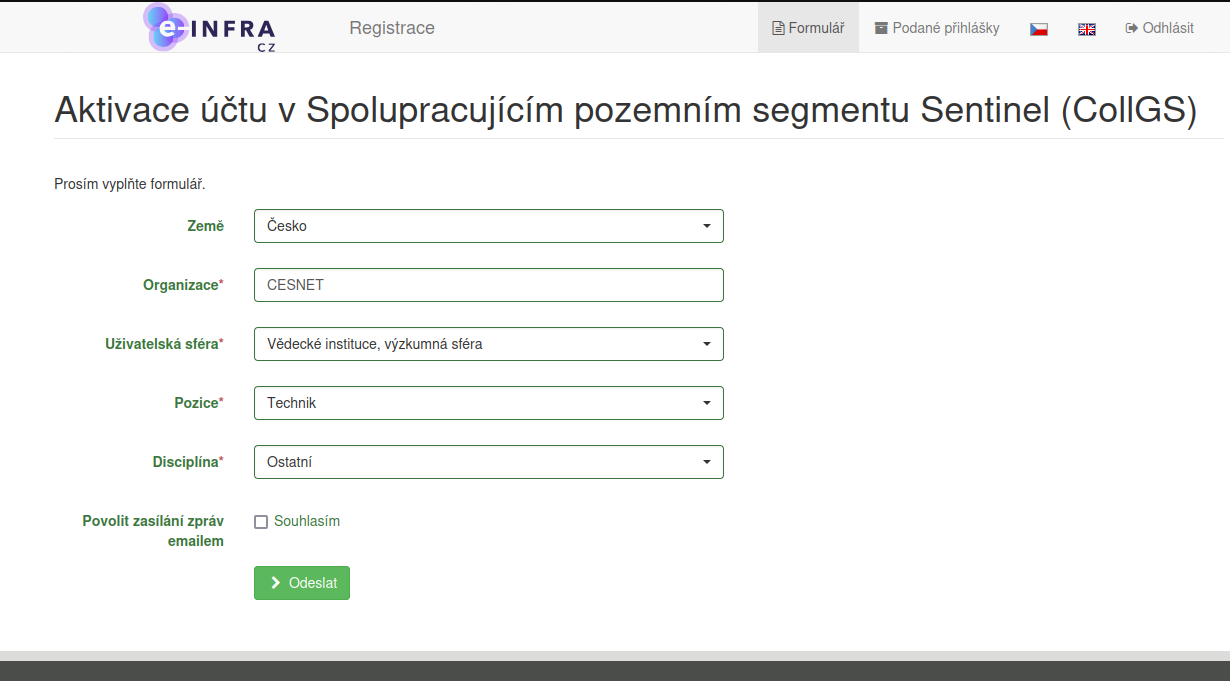
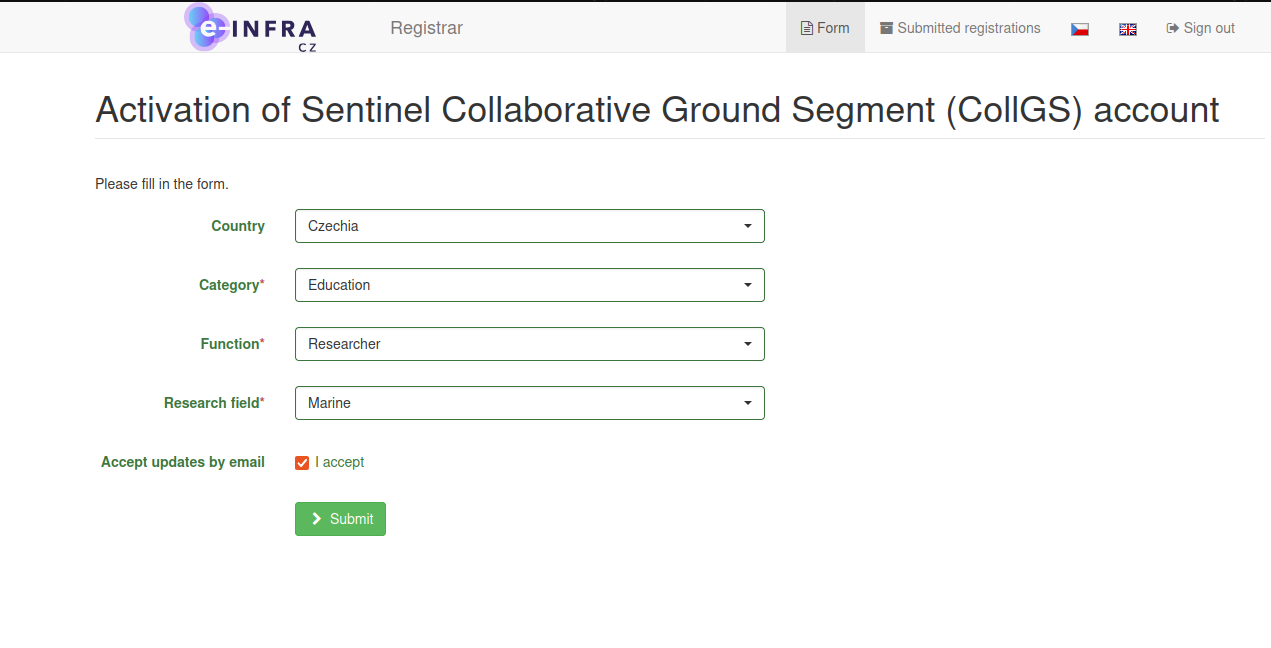
GSS login to english including screenshots

diff --git a/docs/related/collgs/gss_login.md b/docs/related/collgs/gss_login.md
@@ -1,81 +1,90 @@
-# Autentizace uživatelů v GSS
-Tato sekce popisuje autentizaci uživatelů v systému GSS (Gael Store Service), a to jak interaktivní
-přihlášení v grafické komponentě COPSI, tak získání a výměnu tokenů pro strojové použití. Oba způsoby vyžadují registraci.
-Návod na použití tohoto software naleznete v sekci o [práci s daty družic Sentinel](./sentinel.md).
+## User Authentication in GSS
 
-## Grafické rozhraní
+This section describes user authentication in the GSS (Gael Store Service) system, including both interactive login via the graphical COPSI component and obtaining and exchanging tokens for machine use. 
+
+Both methods require registration.
+
+Instructions on using this software can be found in the section on [working with Sentinel satellite data](./sentinel.md).
+
+## Graphical Interface
 
 ![copsi_first_page.png](copsi_first_page.png)
 
-Při přístupu k aplikaci COPSI na adrese [https://collgs.cesnet.cz](https://collgs.cesnet.cz) se zobrazí okno vyžadující přihlášení.
-Po potvrzení tlačítkem _Sign In_ budete přesměrováni na výběr komunity, kterou se chcete přihlásit.
+When accessing the COPSI application at [https://collgs.cesnet.cz](https://collgs.cesnet.cz), a login window will appear.
+
+After confirming by clicking _Sign In_, you will be redirected to select the community you want to log in with.
 
 ![copsi_community.png](copsi_community.png)
 
-Pokud nemáte účet ani v jedné z komunit, zvolte variantu _E-INFRA CZ_.
-Ve výběru následně zvolte Vaši přidruženou instituci, nebo zvolte sociální identitu (např. ORCID).
+If you do not have an account in any of the communities, choose the option _E-INFRA CZ_. Then select your affiliated institution or choose a social identity (e.g., ORCID).
 
 ![copsi_idps.png](copsi_idps.png)
 
-Dokončete přihlášení. Pokud se přihlašujete poprvé, budete přesměrováni na registrační formulář.
-V něm vyplňte požadované údaje. Odesláním vyplněné přihlášky se zakládá účet v IAM systému Perun.
-Ten je aktivní po dobu dvou let, před expirací účtu obdržíte emailem upozornění na prodloužení platnosti účtu. 
+Complete the login process. If this is your first login, you will be redirected to a registration form.
+
+Fill in the required details in the form. By submitting the completed application, an account is created in the IAM Perun system.
+
+The account remains active for two years, and you will receive an email notification before the account expires to extend its validity.
 
 ![perun_registration.png](perun_registration.png)
 
-Podle vybrané komunity při přihlášení budete buď následně přesměrováni zpět do aplikace Copsi,
-nebo Vaše přihláška bude čekat na schválení správcem organizace. V případě, že Vás i po schválení přihlášky aplikace
-přesměruje na stránku, která informuje o tom, že jste již registrováni, zkuste do aplikace přistoupit v anonymním okně,
-nebo smažte cookies.
+Based on the selected community during login, you will either be redirected back to the COPSI application, or your application will wait for approval by the organization administrator.  
 
-## Strojový přístup
+If, after approval, the application redirects you to a page informing you that you are already registered, try accessing the application in an incognito window or clearing your cookies.
 
-Pro stažení produktů pomocí OData API je nutné k požadavkům přidat autentizaci formou access tokenu.
-Tokeny lze získat na adrese [https://keycloak.grid.cesnet.cz/token-portal](https://keycloak.grid.cesnet.cz/token-portal).
+## Machine Access
+
+To download products via the OData API, authentication using an access token must be added to the requests.
+
+Tokens can be obtained at [https://keycloak.grid.cesnet.cz/token-portal](https://keycloak.grid.cesnet.cz/token-portal).
 
 ![token_portal_intro.png](token_portal_intro.png)
 
-Na stránce portálu pokračujte přes volbu _Authorise_. Pokud tokeny generujete poprvé, bude nutné provést registraci. V opačném
-případě se přihlaste, podobně jako v případě přístupu přes [Grafické rozhraní](#grafické-rozhraní).
+On the portal page, proceed by selecting _Authorise_. If you are generating tokens for the first time, you will need to register.
+
+Otherwise, log in similarly to the process described in [Graphical Interface](#graphical-interface).
 
 ![token_portal.png](token_portal.png)
 
-Na stránce _Generate Tokens_ jsou následující položky:
+On the _Generate Tokens_ page, the following items are available:
 
-**Access Token** - slouží k autentizaci a autorizaci při přístupu k API. Má platnost 8 hodin.
+**Access Token** - Used for authentication and authorization when accessing the API. It is valid for 8 hours.
 
-**Refresh Token** - slouží k obnovení access tokenu bez nutnosti opakovaného přihlášení. Platí 30 dnů. Při každé
-žádosti o výměnu access tokenu se vydá zároveň nový refresh token. Původní refresh token se
-tím stává nevalidním, a pro příští výměnu tokenů je nutné použít nový refresh token. Nový refresh token bude mít platnost 30 dnů.
+**Refresh Token** - Used to renew the access token without the need to log in again. It is valid for 30 days. Each time an access token is exchanged, a new refresh token is issued, and the previous one becomes invalid. For the next token exchange, the new refresh token must be used. The new refresh token will also have a validity of 30 days.
 
-**Client ID a Client Secret** - slouží pro autentizaci aplikace při výměně tokenů.
+**Client ID and Client Secret** - Used to authenticate the application during token exchange.
 
-**Příkaz pro výměnu tokenů** - tímto příkazem při expiraci access tokenu získáte nový access token a refresh token s plnou platností.
+**Token Exchange Command** - This command allows you to obtain a new access token and refresh token with full validity when the access token expires.
 
-**Odkaz na správu tokenů** - vede na aplikaci ke správě účtu a tokenů. Zde se můžete odhlásit ze zařízení a revokovat
-tak refresh token.
+**Token Management Link** - Provides access to the application for managing your account and tokens. Here, you can log out from a device and revoke the refresh token.
 
-### Jak pracovat s tokeny
-#### 1. Přístup k API s Access Tokenem
-Po získání access tokenu ho přípojíte k požadavkům na API jako autorizační hlavičku:
+### How to Work with Tokens
+
+#### 1. Accessing the API with an Access Token
+
+After obtaining an access token, include it in your API requests as an authorization header:
 
     Authorization: Bearer <access_token>
 
-Přidání této hlavičky k požadavkům umožní API ověřit vaši identitu a získat potřebná oprávnění.
-Volání GSS OData API pak může vypadat následovně:
+Adding this header to your requests allows the API to verify your identity and grant the necessary permissions.
+
+A GSS OData API call may look as follows:
+
 ```shell
 curl -X GET "https://collgs.cesnet.cz/odata/v1/Products?\$filter=startswith(Name,'S1')%20and%20contains(Name,'SLC')" \
 -H "Authorization: Bearer $ACCESS_TOKEN"  \
 -H "Accept: application/json"
 ```
 
-#### 2. Obnovení access tokenu pomocí refresh tokenu
-Jakmile access token vyprší, místo opětovného přihlášení můžete využít refresh token k získání nového access tokenu.
-Proces probíhá zasláním POST požadavku, který je předpřipravený jako _curl_ dotaz
-na stránce Token portálu. Tento požadavek využívá volání Pythonu, pokud využíváte Python verzi 3, nahraďte v příkazu
-_python_ za _python3_. Tento požadavek Vám spolu s dalšími informacemi vydá nový access token, který má platnost 8 hodin,
-a refresh token s platností 30 dní.
-Ve formátu JSON bude odpověď vypadat následovně:
+#### 2. Refreshing the Access Token Using the Refresh Token
+
+When the access token expires, you can use the refresh token to obtain a new access token without logging in again.
+
+The process involves sending a POST request, which is pre-configured as a _curl_ command on the Token Portal page.  If you are using Python version 3, you may need to replace _python_ with _python3_ in the command.  
+
+This request will return a new access token with an 8-hour validity, along with a refresh token valid for 30 days.
+
+The response in JSON format will look as follows:
 
     {
     "access_token": "eyJh....gywQ",
@@ -89,27 +98,31 @@ Ve formátu JSON bude odpověď vypadat následovně:
     "scope": "openid email profile"
     }
 
-Nový access token lze dále využívat pro dotazy v GSS, novým refresh tokenem nahraďte ten starý.
+You can use the new access token for further requests in GSS, and replace the old refresh token with the new one.
 
-#### 3. Bezpečné ukládání tokenů
-**Access token**: Ukládejte v paměti (např. v proměnné nebo cache) pouze po dobu, kdy je aktivní. Jelikož má kratší platnost,
-není potřeba jej dlouhodobě uchovávat.
+#### 3. Secure Token Storage
 
-**Refresh token**: Doporučuje se ukládat do bezpečného úložiště, např. do databáze nebo do šifrovaného úložiště.
-Refresh token má delší platnost, a proto by měl být uložen na bezpečném místě s omezeným přístupem.
+**Access Token**:  
+Store in memory (e.g., a variable or cache) only while it is active. Since it has a shorter validity period, there is no need for long-term storage.  
 
-#### 4. Revokování tokenů
-V případě potřeby lze tokeny revokovat pomocí aplikace na správu účtů, která je odkazována 
-ve spodní části Token portálu. Odhlášení (revokace tokenu) se nachází v části Account security > Device activity.
-Volbou _Sign out_ se odhlásí vybrané zařízení, volba _Sign out all devices_ slouží pro hromadné odhlášení.
+**Refresh Token**:  
+It is recommended to store in a secure location, such as a database or encrypted storage.
+
+Since the refresh token has a longer validity period, it should be stored securely with limited access.  
+
+#### 4. Token Revocation
+
+If necessary, tokens can be revoked using the account management application linked at the bottom of the Token Portal.
+
+Revocation (logging out) is located under **Account Security > Device Activity**.
+
+Use the _Sign out_ option to log out a specific device, or _Sign out all devices_ for a complete logout.  
 
 ![token_revoke.png](token_revoke.png)
 
-### Výměna tokenů
-V případě, že již pracujete s tokeny z EGI Check-inu, je možné je bez nutnosti dalšího přihlášení vyměnit
-za tokeny umožňující přístup do systému GSS. V takovém případě odešlete platný access token vydaný EGI Check-inem
-metodou POST na endpoint [https://keycloak.grid.cesnet.cz/realms/collgs/protocol/openid-connect/token](https://keycloak.grid.cesnet.cz/realms/collgs/protocol/openid-connect/token) a do těla požadavku
-připojíte následující:
+### Token Exchange
+
+If you are already working with tokens from EGI Check-in, it is possible to exchange them for tokens granting access to the GSS system without further login. In this case, send a valid access token issued by EGI Check-in via POST method to the endpoint [https://keycloak.grid.cesnet.cz/realms/collgs/protocol/openid-connect/token](https://keycloak.grid.cesnet.cz/realms/collgs/protocol/openid-connect/token) and attach the following to the request body:
 
     {
     "client_id": "token-exchange",
@@ -118,4 +131,4 @@ připojíte následující:
     "subject_issuer": "https://aai.egi.eu/auth/realms/egi"
     }
 
-V odpovědi získáte access token, který lze použít pro volání API GSS.
+In the response, you will receive an access token that can be used for GSS API calls.
